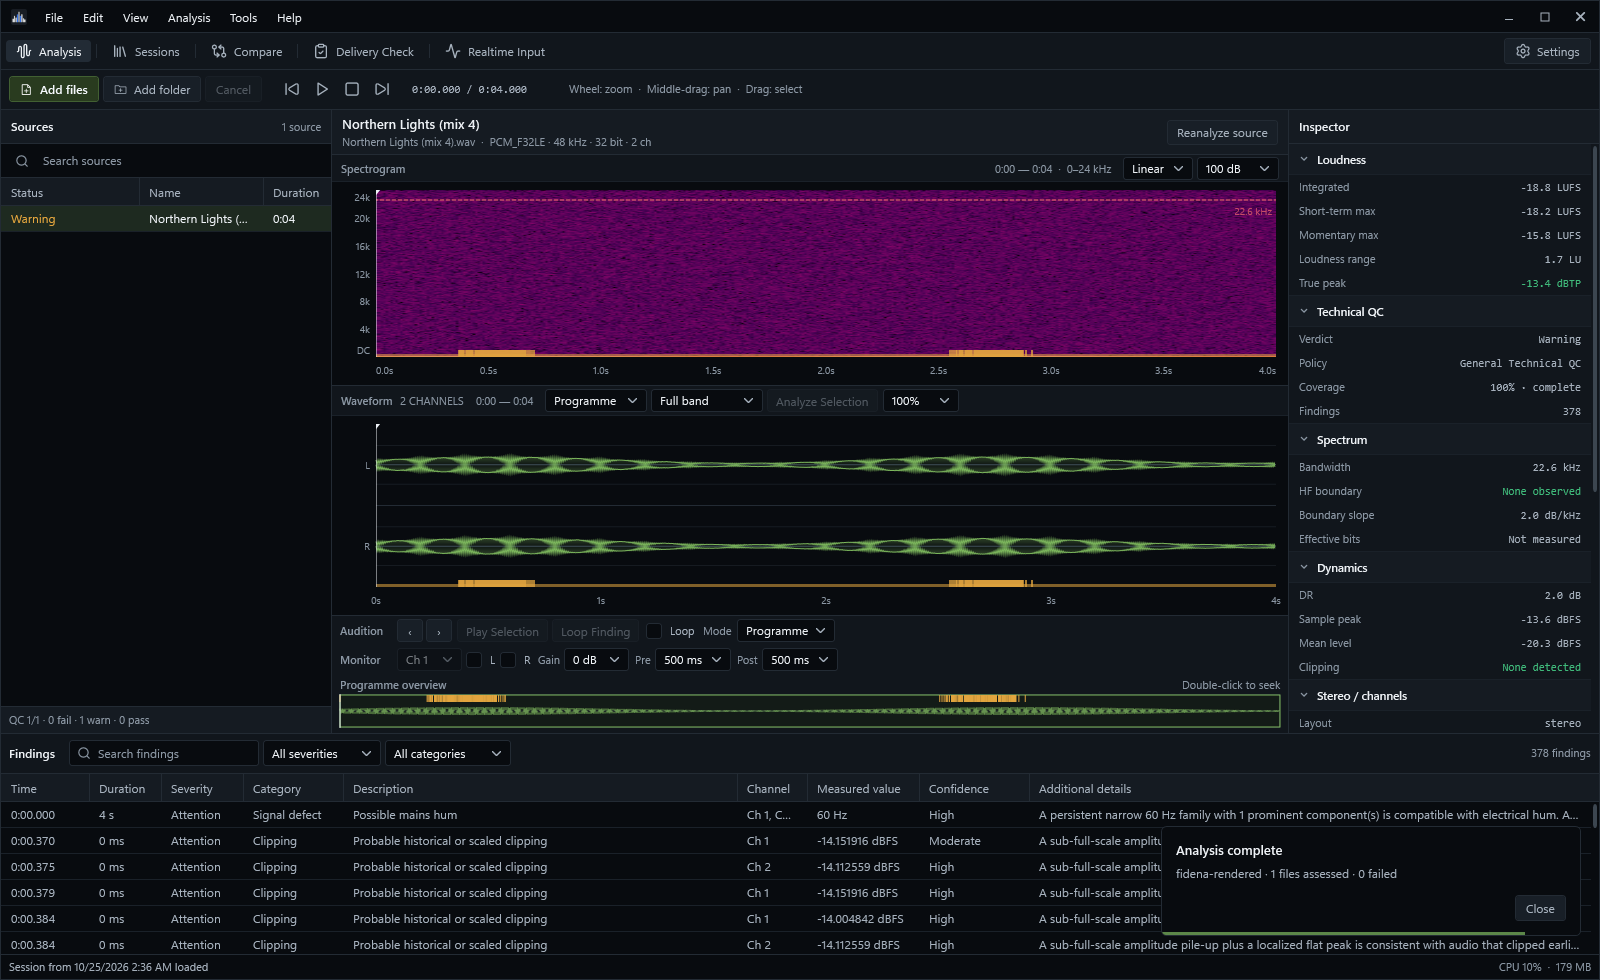
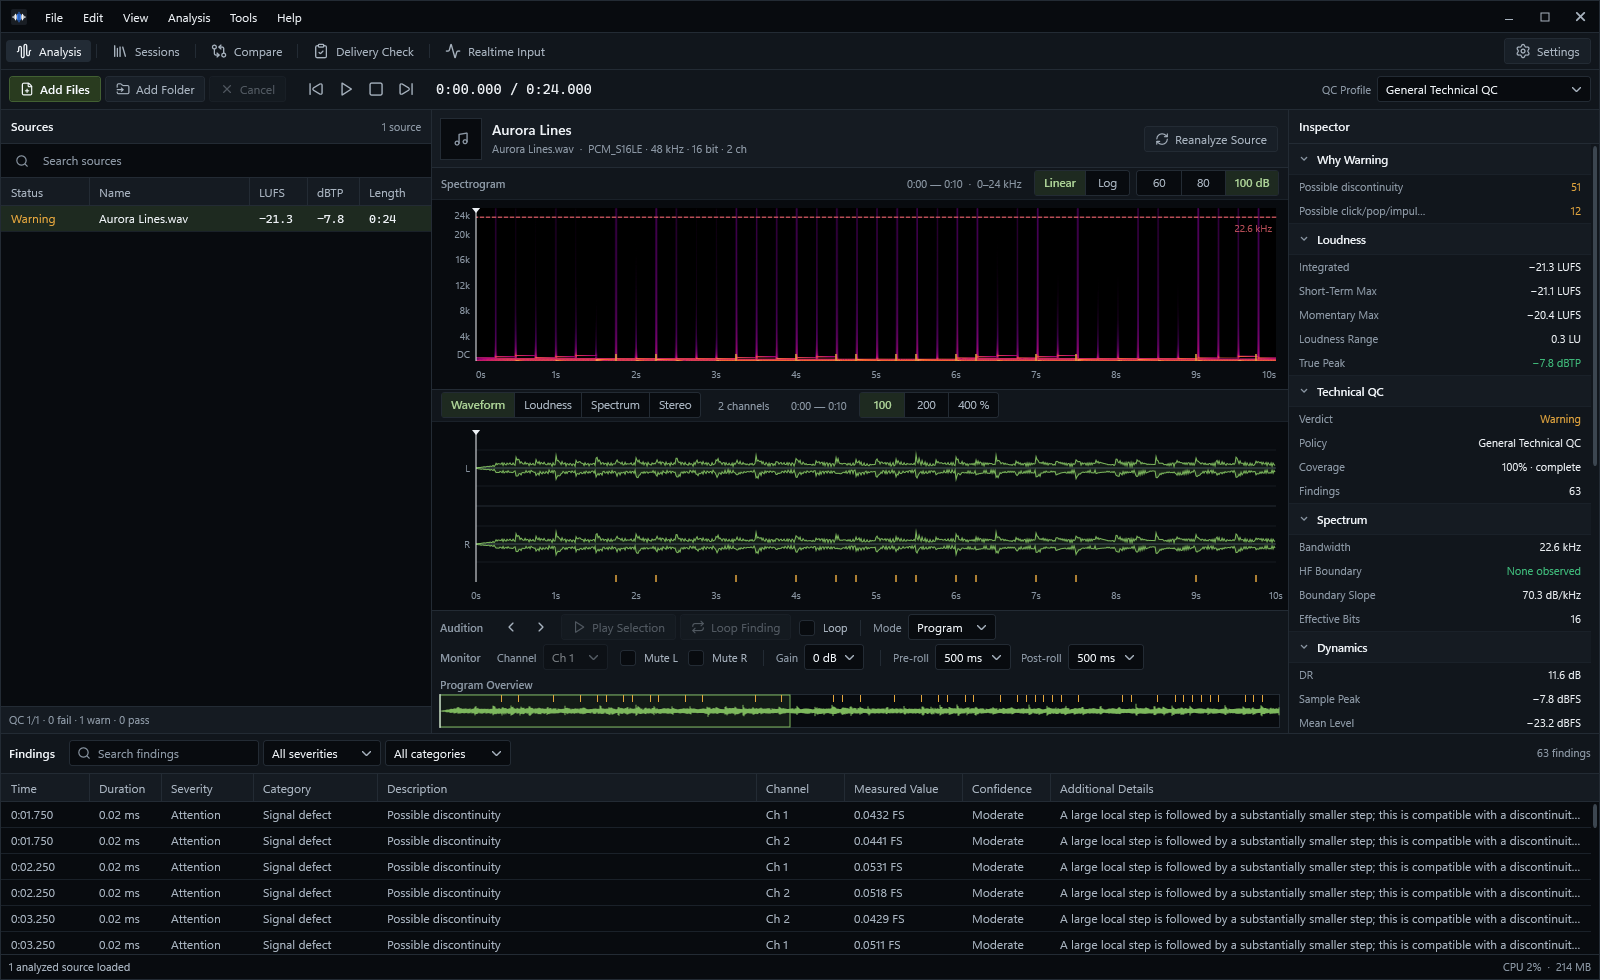
Show Revelis with its waveform mark and the current workstation

diff --git a/README.md b/README.md
@@ -30,7 +30,7 @@ Revelis is the audio measurement workstation of Arctisoft Studio. Analyze files,
 - **Findings with evidence.** Clipping, inter-sample overs, discontinuities, clicks, silence, bandwidth and bit-depth indicators, each with time, channel, measured value and confidence, linked to its position in the waveform and spectrogram.
 - **Coverage you can trust.** Quick Scan measures representative regions, Deep Scan the whole program; the report records what was actually measured, and failed or incomplete decoding is never presented as clean.
 - **Compare.** Two sources through the same measurement pipeline, with offset and gain alignment, drift and polarity checks, and codec preview of AAC, MP3 and Opus.
-- **Delivery Check.** Verify a master against EBU R 128, ATSC A/85, AES TD1008, Free TV OP-59, Spotify, Netflix, Apple Podcasts or your own house and client specifications — one file or a whole folder — with PDF delivery certificates.
+- **Delivery Check.** Verify a master against EBU R 128, ATSC A/85, AES TD1008, Free TV OP-59, Spotify, Netflix, Apple Podcasts or your own house and client specifications, for one file or a whole folder, with PDF delivery certificates.
 - **Live and in the DAW.** Realtime input metering with history and markers, and a VST3 companion that measures a bus inside your DAW and hands the session to Revelis.
 - **Formats beyond PCM.** Native DSD (DSF and DSDIFF), high sample rates, multichannel sources and ADM program rendering to stereo, 5.1, 7.1, 5.1.4 and 7.1.4.
 - **Records and automation.** Sessions and history, reports in HTML, CSV, JSON and text, SHA-256 archive manifests for later integrity checks, watch folders and a command line with exit codes for pipelines.
@@ -39,7 +39,7 @@ A spectrum or bit-pattern observation does not prove a file's original source, l
 
 ## Editions
 
-Every measurement, detector, finding and verdict is identical in both editions — a measurement is never more or less correct because of the edition. Premium adds the delivery and studio workflows around it: results that leave Revelis and checks that run without you. Every Premium workflow is visible in Free and explains itself at the step where it starts.
+Every measurement, detector, finding and verdict is identical in both editions: a measurement is never more or less correct because of the edition. Premium adds the delivery and studio workflows around it: results that leave Revelis and checks that run without you. Every Premium workflow is visible in Free and explains itself at the step where it starts.
 
 | | Free | Premium |
 | --- | :---: | :---: |
